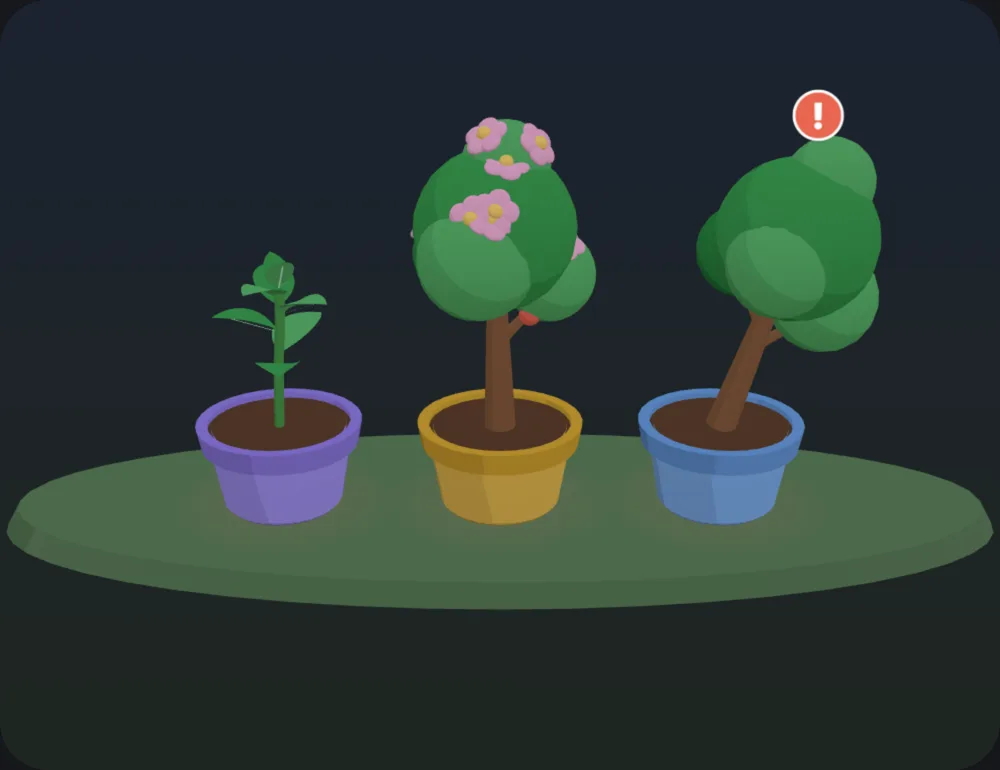
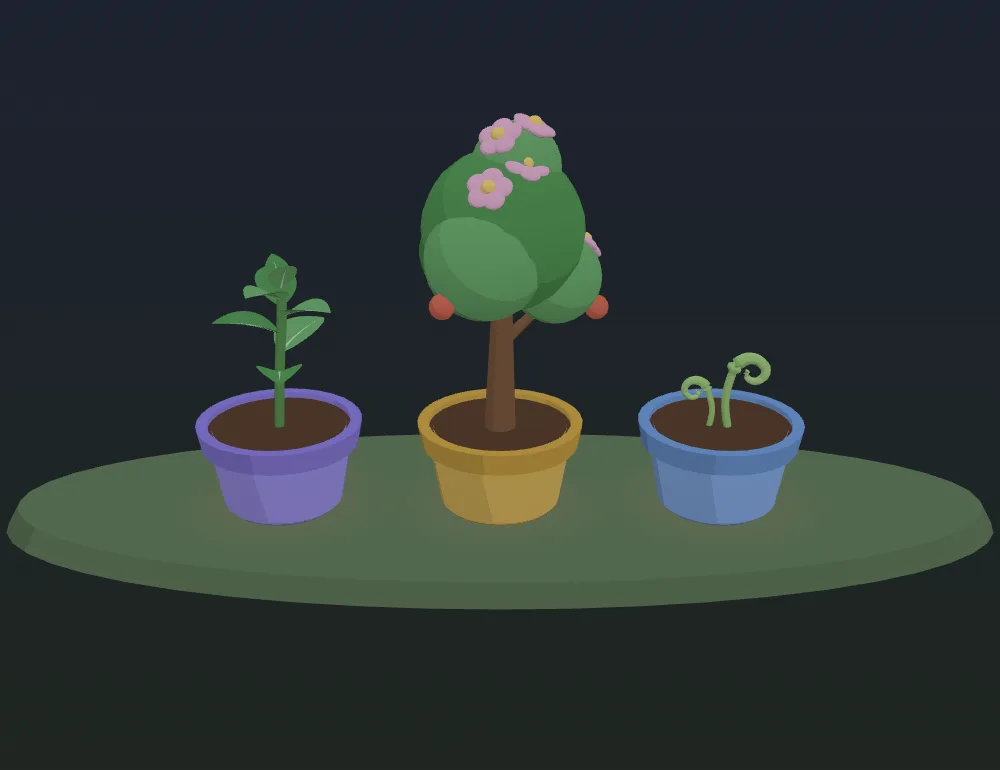
feat(web): polish landing copy, add a goal-achieved step, calmer hero garden (#144)
- Hero: shorter description, drop the demo-data caption, swap the leaning
  tree for a fern sprout (new light/dark stills).
- Steps come right after the hero and grow to four: set goals and standards,
  get told when off the standard, watch the plant grow, celebrate the goal
  with what you wanted to do. Plain wording, no "harvest/basket" terms, no
  "example" labels (only "coming soon" for savings and loans).
- Step numbers use neutral inverted colors; big section headings removed and
  section padding tightened.
- Trust section says the service doesn't manage assets for you, doesn't use
  personally identifying info, can keep asset data on your phone only, and
  doesn't use asset data elsewhere.

Changed region(s): [[0.682, 0.0935, 0.899, 0.561], [0.403, 0.1247, 0.62, 0.4675], [0.217, 0.3117, 0.341, 0.4987]]

diff --git a/apps/web/app/(site)/page.tsx b/apps/web/app/(site)/page.tsx
@@ -2,7 +2,7 @@ import { Fragment } from "react";
 import type { Metadata } from "next";
 import { cookies, headers } from "next/headers";
 import { userAgent } from "next/server";
-import { REBALANCE_BADGE_COLOR } from "@mobile/features/garden/plant-3d/plant-options";
+import { PlantAvatar } from "@mobile/features/garden/components/plant-avatar";
 import { resolveDeviceKind, VIEW_OVERRIDE_COOKIE } from "@mobile/lib/device";
 import { Badge } from "@mobile/seed-design/ui/badge";
 import { Divider, HStack, Text } from "@seed-design/react";
@@ -26,8 +26,8 @@ export const metadata: Metadata = {
 };
 
 /**
- * 목표 예시 — 자산마다 목표·기준·지금까지 온 정도(%). 저축·대출은 아직 없는 기능이라 그림 설명에 "예시" 와
- * "준비 중" 을 함께 적는다.
+ * 목표 예시 — 자산마다 목표·기준·지금까지 온 정도(%). 저축·대출은 아직 없는 기능이라 그림 설명에 "준비 중" 을
+ * 적는다.
  */
 const exampleGoals = [
   {
@@ -42,7 +42,7 @@ const exampleGoals = [
 
 /**
  * 기준 확인 예시 — 자산마다 정한 기준과 지금 상태, 맞추려면 할 일. 저축·대출은 아직 없는 기능이라 그림 설명에
- * "예시" 와 "준비 중" 을 함께 적는다. 종목 이름은 쓰지 않는다 (투자 권유로 읽히지 않게).
+ * "준비 중" 을 적는다. 종목 이름은 쓰지 않는다 (투자 권유로 읽히지 않게).
  */
 const exampleChecks = [
   {
@@ -61,6 +61,29 @@ const exampleChecks = [
     off: false,
   },
 ];
+
+/**
+ * 이룬 목표 예시 — 이룬 목표(주), 어느 자산에서 얼마나 걸렸는지, 이루면 하고 싶었던 일(부). 지금 있는 기능인
+ * 투자 포트폴리오만 쓴다. 앱의 바구니 카드에서 왔지만 화면 문구에는 "수확"·"바구니" 같은 낯선 말을 쓰지 않는다.
+ */
+const exampleHarvests = [
+  {
+    goal: "3,000만원 모으기",
+    source: "투자 포트폴리오 · 2년 2개월",
+    wish: "가족과 제주도 여행 가기",
+    done: true,
+    kind: "tree",
+    pot: "sun",
+  },
+  {
+    goal: "1,000만원 모으기",
+    source: "투자 포트폴리오 · 1년 9개월",
+    wish: "부모님 새 냉장고 사 드리기",
+    done: false,
+    kind: "fern",
+    pot: "sky",
+  },
+] as const;
 
 /** 다루는 자산과 각각의 목표·기준. 아직 없는 것은 `ready: false` 로 "준비 중" 을 붙인다. */
 const assetKinds = [
@@ -96,23 +119,23 @@ const assetKinds = [
 
 const facts = [
   {
-    title: "주문을 대신 넣지 않아요",
+    title: "자산 관리를 대신하지 않아요",
     description:
-      "증권사 계좌에 연결하지 않고 종목을 추천하지도 않아요. 계산 결과는 내가 정한 목표 비중으로 낸 값이에요. 보유 수량은 직접 입력하고, 매매는 직접 판단해 쓰던 증권사에서 해요.",
+      "증권사 계좌에 연결하거나 종목을 추천하지 않아요. 사고파는 건 내가 판단해서 내 증권사 앱에서 해요.",
   },
   {
-    title: "개인정보 없이 로그인해요",
+    title: "개인을 특정할 수 있는 정보를 활용하지 않아요",
     description:
-      "카카오·Apple 로그인에서 이름·이메일·프로필 사진을 받지 않아요. 로그인을 확인하는 번호만 저장해요.",
+      "카카오·Apple 로그인에서 이름·이메일·프로필 사진을 받지 않고, 접속 IP와 기기 정보도 저장하지 않아요.",
   },
   {
-    title: "어디에 저장할지 직접 골라요",
+    title: "자산 정보를 내 스마트폰에만 둘 수 있어요",
     description:
-      "이 기기에만 두거나, 클라우드에 저장해 같은 계정의 다른 기기에서도 볼 수 있어요. 저장 위치를 바꿔도 양쪽 데이터를 합쳐요.",
+      "내 스마트폰에만 저장하면 자산 정보가 스마트폰 밖으로 나가지 않아요. 다른 기기에서도 보려면 클라우드 저장을 고르면 돼요.",
   },
   {
-    title: "언제든 파일로 꺼낼 수 있어요",
-    description: "계좌와 목표, 매매 기록을 JSON 파일로 내보내고 다시 가져와요.",
+    title: "자산 정보를 다른 곳에 쓰지 않아요",
+    description: "내 자산 정보를 광고에 쓰지 않고, 다른 회사에 팔거나 넘기지 않아요.",
   },
 ];
 
@@ -161,7 +184,7 @@ function Step({
   return (
     <li className="grid items-center gap-x10 md:grid-cols-2 md:gap-x16">
       <div className={reverse ? "md:order-last" : undefined}>
-        <span className="landing-mint landing-leaf t5-bold flex size-x8 items-center justify-center rounded-full">
+        <span className="bg-bg-neutral-inverted text-fg-neutral-inverted t6-bold flex size-x10 items-center justify-center rounded-full tabular-nums">
           {step}
         </span>
         <p className="t5-medium text-fg-neutral-subtle mt-x4">{before}</p>
@@ -228,15 +251,34 @@ function StandardCheckExample({ className }: { className?: string }) {
   );
 }
 
-function RebalanceBadge() {
+/** 이룬 목표 예시. 이룬 목표가 크게, 그때 하고 싶었던 일이 그 아래 작게 남는 모습. */
+function HarvestExample() {
   return (
-    <span
-      aria-hidden
-      className="inline-flex size-[1.4em] items-center justify-center rounded-full align-[-0.2em] text-[0.8em] font-bold text-white"
-      style={{ backgroundColor: REBALANCE_BADGE_COLOR }}
-    >
-      !
-    </span>
+    <ul className="mx-auto flex w-full max-w-[420px] flex-col gap-x3">
+      {exampleHarvests.map((item) => (
+        <li
+          key={item.goal}
+          className="bg-bg-layer-default border-stroke-neutral-subtle rounded-r5 flex gap-x4 border p-x5 shadow-[0_16px_32px_-24px_rgba(0,0,0,0.35)]"
+        >
+          <span className="shrink-0">
+            <PlantAvatar stage="bloom" kind={item.kind} pot={item.pot} ripe size={56} />
+          </span>
+          <div className="min-w-0 flex-1">
+            <p className="t3-bold landing-leaf">목표 달성</p>
+            <p className="t7-bold mt-x0_5 tabular-nums">{item.goal}</p>
+            <p className="t3-regular text-fg-neutral-subtle mt-x0_5 tabular-nums">{item.source}</p>
+            <div className="bg-bg-neutral-weak rounded-r2 mt-x3 flex items-center justify-between gap-x2 px-x3 py-x2">
+              <p className="t4-regular min-w-0 text-fg-neutral-muted">{item.wish}</p>
+              <span
+                className={`t3-bold shrink-0 ${item.done ? "text-fg-neutral" : "text-fg-neutral-subtle"}`}
+              >
+                {item.done ? "✓ 했어요" : "아직"}
+              </span>
+            </div>
+          </div>
+        </li>
+      ))}
+    </ul>
   );
 }
 
@@ -258,8 +300,7 @@ export default async function HomePage() {
               <span className="landing-leaf">내 기준대로 이뤄 가요</span>
             </h1>
             <p className="t5-regular md:t7-regular text-fg-neutral-muted mt-x5 max-w-xl">
-              투자 포트폴리오, 저축, 적금, 대출처럼 자산마다 목표와 지킬 기준을 정해요. 지금
-              어디쯤인지 보여 주고, 기준에서 벗어나면 알려 주고, 이룬 목표는 눈에 보이게 쌓여요.
+              자산마다 목표와 기준을 정하면, 지금 어디쯤인지 보여 주고 이룬 목표는 쌓여 가요.
             </p>
             <div className="mt-x10">
               <StartAction desktop={desktop} host={host} />
@@ -271,20 +312,93 @@ export default async function HomePage() {
           <figure>
             <LandingGarden
               scene="garden"
-              alt="화분 세 개가 놓인 앱 첫 화면. 꽃이 핀 나무, 기울어진 채 ! 표시가 뜬 나무, 어린 묘목이 있다"
+              alt="화분 세 개가 놓인 정원. 어린 묘목, 꽃이 피고 열매 맺은 나무, 막 돋은 고사리 새순이 있다"
               priority
               className="rounded-r6"
             />
             <figcaption className="t3-regular text-fg-neutral-subtle mt-x3 text-center">
-              목표에 가까워질수록 식물이 자라요 · 데모 데이터예요
+              목표에 가까워질수록 식물이 자라요
             </figcaption>
           </figure>
         </section>
 
-        {/* 2. 다루는 자산 — 자산마다 목표와 기준. 아직 없는 것은 준비 중 */}
-        <section className={`${SECTION} pb-x16 md:pb-24`}>
-          <h2 className="t10-bold">자산마다 목표와 기준을 정해요</h2>
-          <ul className="mt-x8 grid gap-x4 md:grid-cols-2 lg:grid-cols-4">
+        {/* 2. 목표를 이뤄 가는 네 걸음 — 번거롭던 일 → 얻는 것 */}
+        <section className="bg-bg-neutral-weak">
+          <div className={`${SECTION} py-x12 md:py-20`}>
+            <h2 className="sr-only">목표를 이뤄 가는 네 걸음</h2>
+            <ol className="flex flex-col gap-x16 md:gap-20">
+              <Step
+                step={1}
+                before="어떻게 모아야 할지 막막했다면"
+                title="목표와 기준부터 정해요"
+                description="이루고 싶은 목표를 정하고, 거기까지 가는 동안 지킬 기준을 함께 정해요. 여러 계좌에 나뉜 자산도 한 화면에 모아 봐요."
+              >
+                <figure>
+                  <GoalExample />
+                  <figcaption className="t3-regular text-fg-neutral-subtle mt-x3 text-center">
+                    저축·대출은 준비 중이에요
+                  </figcaption>
+                </figure>
+              </Step>
+
+              <Step
+                step={2}
+                reverse
+                before="정해 둔 기준을 지키기 어려웠다면"
+                title="기준에서 벗어나면 알려 줘요"
+                description="비중이 한쪽으로 쏠리거나 매달 넣기로 한 금액이 모자라면 바로 알 수 있어요. 기준으로 돌아가려면 무엇을 얼마나 하면 되는지도 계산해 보여 줘요."
+              >
+                <figure>
+                  <div className="relative">
+                    <LandingGarden
+                      scene="rebalance"
+                      alt="같은 크기의 나무 두 그루. 왼쪽은 똑바로 서 있고, 오른쪽은 기울어진 채 ! 표시가 떠 있다"
+                      className="rounded-r6"
+                    />
+                    <StandardCheckExample className="mx-auto -mt-x10 w-[88%] max-w-[340px] md:absolute md:right-[-16px] md:bottom-[-40px] md:mt-0 md:w-[300px]" />
+                  </div>
+                  <figcaption className="t3-regular text-fg-neutral-subtle mt-x3 text-center md:mt-x12">
+                    기준에서 벗어나면 기울고 ! 표시가 떠요 · 저축·대출은 준비 중이에요
+                  </figcaption>
+                </figure>
+              </Step>
+
+              <Step
+                step={3}
+                before="꾸준히 모아도 티가 나지 않았다면"
+                title="목표에 가까워질수록 식물이 자라요"
+                description="목표에 다가간 만큼 씨앗이 새싹이 되고, 나무가 돼요."
+              >
+                <figure>
+                  <LandingGarden
+                    scene="growth"
+                    alt="같은 식물의 다섯 모습이 한 줄로 서 있다. 왼쪽 씨앗부터 새싹, 묘목, 나무, 열매 맺은 나무까지"
+                    className="rounded-r6"
+                  />
+                  <div className="text-fg-neutral-subtle t3-regular mt-x3 flex justify-between px-x2">
+                    <span>목표를 정했을 때</span>
+                    <span>목표를 이뤘을 때</span>
+                  </div>
+                </figure>
+              </Step>
+
+              <Step
+                step={4}
+                reverse
+                before="목표를 이루고도 그냥 지나쳤다면"
+                title="이룬 목표는 기록으로 남아요"
+                description="목표를 이루면 그 순간을 기념하고, 하고 싶었던 일을 해 보세요."
+              >
+                <HarvestExample />
+              </Step>
+            </ol>
+          </div>
+        </section>
+
+        {/* 3. 다루는 자산 — 자산마다 목표와 기준. 아직 없는 것은 준비 중 */}
+        <section className={`${SECTION} py-x12 md:py-16`}>
+          <h2 className="t6-bold text-fg-neutral-muted">자산마다 목표와 기준을 정해요</h2>
+          <ul className="mt-x4 grid gap-x4 md:grid-cols-2 lg:grid-cols-4">
             {assetKinds.map((kind) => (
               <li
                 key={kind.name}
@@ -312,80 +426,13 @@ export default async function HomePage() {
           </ul>
         </section>
 
-        {/* 3. 목표를 이뤄 가는 세 걸음 — 번거롭던 일 → 얻는 것 */}
-        <section className="bg-bg-neutral-weak">
-          <div className={`${SECTION} py-x16 md:py-28`}>
-            <h2 className="t10-bold">목표를 이뤄 가는 세 걸음</h2>
-            <ol className="mt-x12 flex flex-col gap-x16 md:mt-x16 md:gap-28">
-              <Step
-                step={1}
-                before="모으고는 있는데 어디까지 가야 할지 모르겠다면"
-                title="목표와 기준부터 정해요"
-                description="모을 금액, 다 갚을 날처럼 이루고 싶은 목표를 정하고, 그 목표로 가는 동안 지킬 기준을 함께 정해요. 여러 곳에 흩어진 자산을 모아 지금 어디쯤인지 한 화면에서 봐요."
-              >
-                <figure>
-                  <GoalExample />
-                  <figcaption className="t3-regular text-fg-neutral-subtle mt-x3 text-center">
-                    예시예요 · 저축·대출은 준비 중이에요
-                  </figcaption>
-                </figure>
-              </Step>
-
-              <Step
-                step={2}
-                reverse
-                before="정해 둔 기준을 잊고 지내고 있다면"
-                title="기준에서 벗어나면 알려 주고, 맞출 방법을 계산해요"
-                description={
-                  <>
-                    자산을 나눌 비중이든 매달 넣을 금액이든, 정해 둔 기준에서 벗어나면{" "}
-                    <RebalanceBadge /> 표시로 알려 줘요. 다시 맞추려면 무엇을 얼마나 하면 되는지
-                    계산해 드려요. 실제 거래와 이체는 쓰던 금융사에서 직접 해요.
-                  </>
-                }
-              >
-                <figure>
-                  <div className="relative">
-                    <LandingGarden
-                      scene="rebalance"
-                      alt="같은 크기의 나무 두 그루. 왼쪽은 똑바로 서 있고, 오른쪽은 기울어진 채 ! 표시가 떠 있다"
-                      className="rounded-r6"
-                    />
-                    <StandardCheckExample className="mx-auto -mt-x10 w-[88%] max-w-[340px] md:absolute md:right-[-16px] md:bottom-[-40px] md:mt-0 md:w-[300px]" />
-                  </div>
-                  <figcaption className="t3-regular text-fg-neutral-subtle mt-x3 text-center md:mt-x12">
-                    기준에서 벗어나면 기울고 ! 표시가 떠요 · 카드는 예시예요 (저축·대출은 준비 중)
-                  </figcaption>
-                </figure>
-              </Step>
-
-              <Step
-                step={3}
-                before="꾸준히 해도 티가 나지 않았다면"
-                title="이룬 목표가 눈에 보이게 쌓여요"
-                description="목표에 가까워질수록 식물이 자라요. 목표를 이루면 걸린 기간과 처음에 적어 둔 하고 싶은 일이 기록으로 남고, 다음 목표로 이어 가요."
-              >
-                <figure>
-                  <LandingGarden
-                    scene="growth"
-                    alt="같은 식물의 다섯 모습이 한 줄로 서 있다. 왼쪽 씨앗부터 새싹, 묘목, 나무, 열매 맺은 나무까지"
-                    className="rounded-r6"
-                  />
-                  <div className="text-fg-neutral-subtle t3-regular mt-x3 flex justify-between px-x2">
-                    <span>목표를 정했을 때</span>
-                    <span>목표를 이뤘을 때</span>
-                  </div>
-                </figure>
-              </Step>
-            </ol>
-          </div>
-        </section>
-
         {/* 4. 믿고 쓸 수 있는 이유 */}
         <section className="landing-mint">
-          <div className={`${SECTION} py-x16 md:py-24`}>
-            <h2 className="t10-bold">내 돈은 쓰던 증권사에 그대로 있어요</h2>
-            <dl className="mt-x8 grid gap-x8 md:grid-cols-2 md:gap-x-x12">
+          <div className={`${SECTION} py-x12 md:py-16`}>
+            <h2 className="sr-only">
+              자산 관리를 대신하지 않고, 자산 정보를 다른 곳에 쓰지 않아요
+            </h2>
+            <dl className="grid gap-x8 md:grid-cols-2 md:gap-x-x12">
               {facts.map((fact) => (
                 <div key={fact.title}>
                   <dt className="t6-bold">{fact.title}</dt>

diff --git a/apps/web/app/(site)/_components/landing-garden-scenes.ts b/apps/web/app/(site)/_components/landing-garden-scenes.ts
@@ -7,7 +7,7 @@ import type { PlantSlot } from "@mobile/features/garden/plant-3d/plant-renderer"
  * 2배율로 캡처해 1000×770 으로 줄인 것이라, 식물을 바꾸면 라이트·다크 이미지를 다시 캡처한다.
  */
 export const LANDING_GARDEN_PLANTS = {
-  /** 히어로: 다 자란 나무, 리밸런싱이 필요해 기운 나무, 자라는 중인 묘목. */
+  /** 히어로: 자라는 중인 묘목, 열매 맺은 나무, 막 돋은 고사리 새순. */
   garden: [
     {
       stage: "sapling",
@@ -19,7 +19,16 @@ export const LANDING_GARDEN_PLANTS = {
       seed: 11,
     },
     { stage: "bloom", rain: 0, wilt: 0, ripe: true, needsRebalance: false, pot: "sun", seed: 7 },
-    { stage: "tree", rain: 0, wilt: 0, ripe: false, needsRebalance: true, pot: "sky", seed: 3 },
+    {
+      stage: "sprout",
+      rain: 0,
+      wilt: 0,
+      ripe: false,
+      needsRebalance: false,
+      pot: "sky",
+      seed: 3,
+      kind: "fern",
+    },
   ],
   /** 리밸런싱: 목표 비중 안의 나무와 벗어나 기운 나무. */
   rebalance: [

diff --git a/apps/web/app/(site)/_components/landing-garden-scenes.test.ts b/apps/web/app/(site)/_components/landing-garden-scenes.test.ts
@@ -43,6 +43,20 @@ describe("landingGardenSlots", () => {
   });
 });
 
+describe("hero garden", () => {
+  it("has no leaning plant", () => {
+    expect(LANDING_GARDEN_PLANTS.garden.some((plant) => plant.needsRebalance)).toBe(false);
+  });
+
+  it("includes a fern sprout", () => {
+    expect(
+      LANDING_GARDEN_PLANTS.garden.some(
+        (plant) => "kind" in plant && plant.kind === "fern" && plant.stage === "sprout"
+      )
+    ).toBe(true);
+  });
+});
+
 describe("growth scene", () => {
   it("shows the same plant at every stage from seed to fruit, in order", () => {
     const plants = LANDING_GARDEN_PLANTS.growth;
